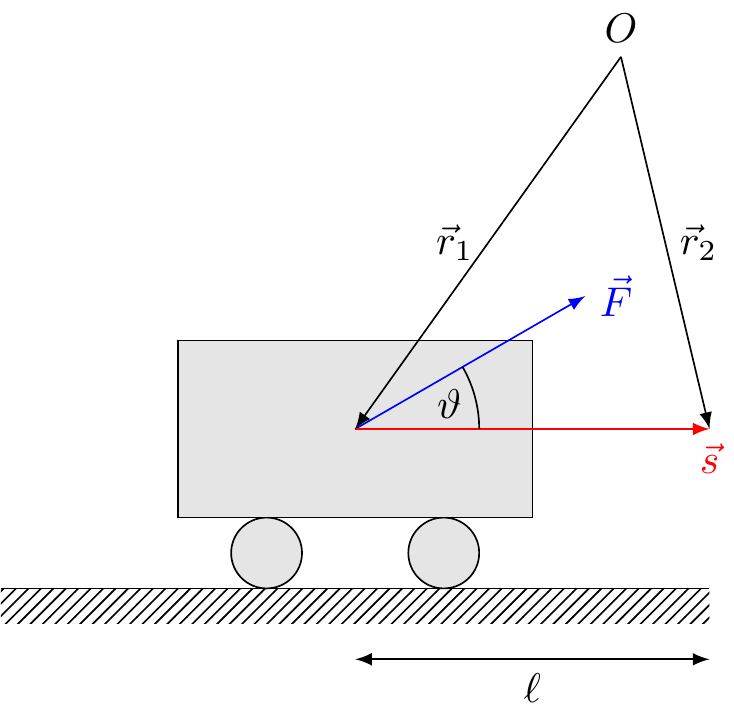
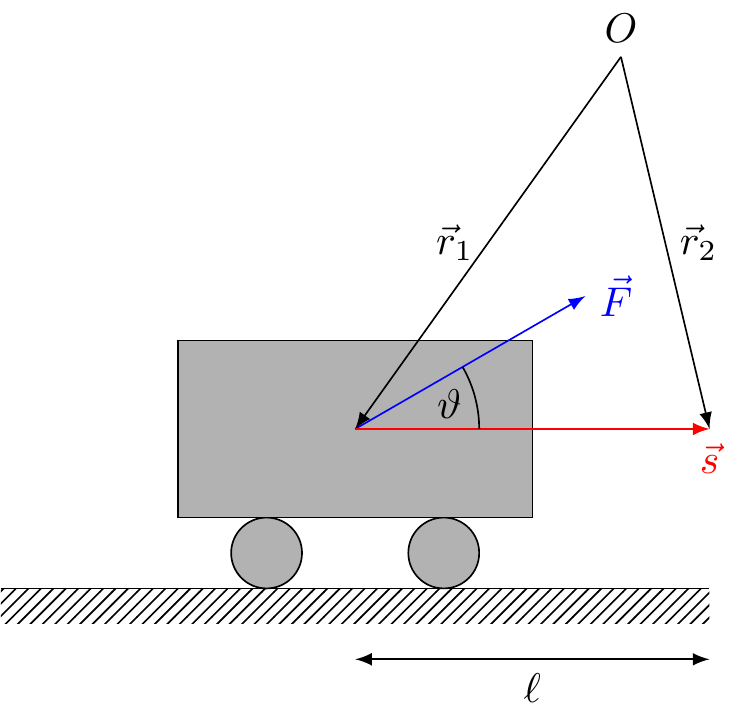
darker gray

Changed region(s): [[0.2398, 0.4603, 0.7493, 0.8285]]

diff --git a/mechanics/wagon/wagon_inverted.tex b/mechanics/wagon/wagon_inverted.tex
@@ -11,6 +11,7 @@
 
 \usepackage{amsmath}
 \tikzset{>=latex}
+\colorlet{gray}{gray!60}
 \usetikzlibrary{calc,patterns}
 \newcommand{\F}{\vec{F}}
 \newcommand{\ort}{\vec{r}}
@@ -22,9 +23,9 @@
   \pgfmathsetmacro{\wheel}{0.2}
   \pattern[pattern=north east lines] (-1,0)--++(0,-0.2)--++(4,0)--++(0,0.2)--cycle;
   \draw (-1,0) -- ++(4,0);
-  \draw[fill=gray!60] (0.5,\wheel) circle (\wheel);
-  \draw[fill=gray!60] (1.5,\wheel) circle (\wheel);
-  \draw[fill=gray!60] (0,2*\wheel) rectangle (2,1+2*\wheel);
+  \draw[fill=gray] (0.5,\wheel) circle (\wheel);
+  \draw[fill=gray] (1.5,\wheel) circle (\wheel);
+  \draw[fill=gray] (0,2*\wheel) rectangle (2,1+2*\wheel);
   \coordinate (C) at (1,2*\wheel+0.5);
   \coordinate (Z) at (3,2*\wheel+0.5);
   \draw[->,blue] (C) -- ++(\angl:1.5) node[right] {$\F$};

diff --git a/mechanics/wagon/wagon.tex b/mechanics/wagon/wagon.tex
@@ -2,6 +2,7 @@
 
 \usepackage{amsmath}
 \tikzset{>=latex}
+\colorlet{gray}{gray!60}
 \usetikzlibrary{calc,patterns}
 \newcommand{\F}{\vec{F}}
 \newcommand{\ort}{\vec{r}}
@@ -13,9 +14,9 @@
   \pgfmathsetmacro{\wheel}{0.2}
   \pattern[pattern=north east lines] (-1,0)--++(0,-0.2)--++(4,0)--++(0,0.2)--cycle;
   \draw (-1,0) -- ++(4,0);
-  \draw[fill=gray!20] (0.5,\wheel) circle (\wheel);
-  \draw[fill=gray!20] (1.5,\wheel) circle (\wheel);
-  \draw[fill=gray!20] (0,2*\wheel) rectangle (2,1+2*\wheel);
+  \draw[fill=gray] (0.5,\wheel) circle (\wheel);
+  \draw[fill=gray] (1.5,\wheel) circle (\wheel);
+  \draw[fill=gray] (0,2*\wheel) rectangle (2,1+2*\wheel);
   \coordinate (C) at (1,2*\wheel+0.5);
   \coordinate (Z) at (3,2*\wheel+0.5);
   \draw[->,blue] (C) -- ++(\angl:1.5) node[right] {$\F$};

diff --git a/mechanics.md b/mechanics.md
@@ -1821,6 +1821,7 @@
 
 \usepackage{amsmath}
 \tikzset{>=latex}
+\colorlet{gray}{gray!60}
 \usetikzlibrary{calc,patterns}
 \newcommand{\F}{\vec{F}}
 \newcommand{\ort}{\vec{r}}
@@ -1832,9 +1833,9 @@
   \pgfmathsetmacro{\wheel}{0.2}
   \pattern[pattern=north east lines] (-1,0)--++(0,-0.2)--++(4,0)--++(0,0.2)--cycle;
   \draw (-1,0) -- ++(4,0);
-  \draw[fill=gray!20] (0.5,\wheel) circle (\wheel);
-  \draw[fill=gray!20] (1.5,\wheel) circle (\wheel);
-  \draw[fill=gray!20] (0,2*\wheel) rectangle (2,1+2*\wheel);
+  \draw[fill=gray] (0.5,\wheel) circle (\wheel);
+  \draw[fill=gray] (1.5,\wheel) circle (\wheel);
+  \draw[fill=gray] (0,2*\wheel) rectangle (2,1+2*\wheel);
   \coordinate (C) at (1,2*\wheel+0.5);
   \coordinate (Z) at (3,2*\wheel+0.5);
   \draw[->,blue] (C) -- ++(\angl:1.5) node[right] {$\F$};
@@ -4357,6 +4358,7 @@
 
 \usepackage{amsmath}
 \tikzset{>=latex}
+\colorlet{gray}{gray!60}
 \usetikzlibrary{calc,patterns}
 \newcommand{\F}{\vec{F}}
 \newcommand{\ort}{\vec{r}}
@@ -4368,9 +4370,9 @@
   \pgfmathsetmacro{\wheel}{0.2}
   \pattern[pattern=north east lines] (-1,0)--++(0,-0.2)--++(4,0)--++(0,0.2)--cycle;
   \draw (-1,0) -- ++(4,0);
-  \draw[fill=gray!60] (0.5,\wheel) circle (\wheel);
-  \draw[fill=gray!60] (1.5,\wheel) circle (\wheel);
-  \draw[fill=gray!60] (0,2*\wheel) rectangle (2,1+2*\wheel);
+  \draw[fill=gray] (0.5,\wheel) circle (\wheel);
+  \draw[fill=gray] (1.5,\wheel) circle (\wheel);
+  \draw[fill=gray] (0,2*\wheel) rectangle (2,1+2*\wheel);
   \coordinate (C) at (1,2*\wheel+0.5);
   \coordinate (Z) at (3,2*\wheel+0.5);
   \draw[->,blue] (C) -- ++(\angl:1.5) node[right] {$\F$};
